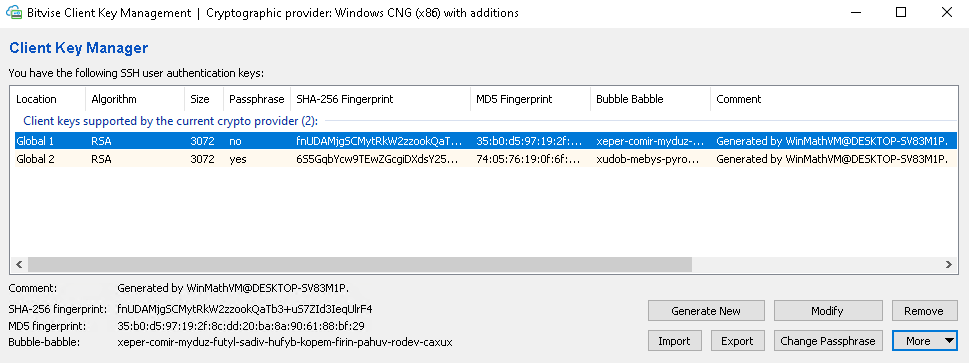
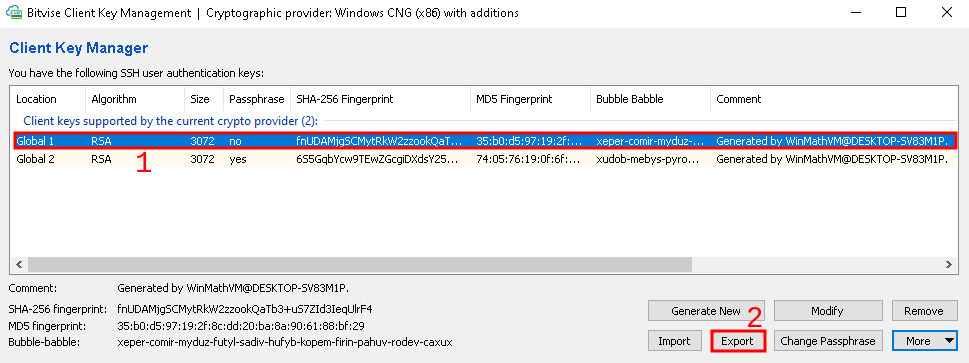
Added installation of pubkey

Changed region(s): [[0.0, 0.3636, 0.9907, 0.4848], [0.7121, 0.8485, 0.805, 0.9697]]

diff --git a/src/ssh/windows/bitvise/ssh.md b/src/ssh/windows/bitvise/ssh.md
@@ -42,7 +42,7 @@ At this point, the main window of Bitvise SSH should open automatically. If it d
 
 ### Generating keys
 
-Click on the "Client key manager" field as indicated below. This will open the key manager interface.
+Click on the `Client key manager` field as indicated below. This will open the key manager interface.
 
 <p>
 	<center>
@@ -50,7 +50,7 @@ Click on the "Client key manager" field as indicated below. This will open the k
 	</center>
 </p>
 
-In the key generation interface, click on "Generate New", which should bring you to the next step. Consult the image below. 
+In the key generation interface, click on `Generate New`, which should bring you to the next step. Consult the image below. 
 
 <p>
 	<center>
@@ -70,8 +70,96 @@ In the newly opened window, you are asked about setting a passphrase to your key
 
 Congratiulations! Your keypair has now been generated. Please proceed to see details on how to install these keys on the server(s).
 
+### Exporting the public key
+
+Once you have your keypair ready, it's time to install it on the server. From the key manager interface, select the keypair you would like to use, and click `Export` as indicated in the picture below. 
+
+> Please note that **you can use the same keypair for multiple servers**. You do not need to regenereate the keypair for each server you want to use it on. This way, you can think of this keypair as a general access card. 
+
+<p>
+	<center>
+		<img src="assets/bitvise_pubkey.png"/>
+	</center>
+</p>
+
+In the newly selected menu, choose `Export public key`. **Please make sure that the format of the key that you want to export is set to `OpenSSH format`**. After this, click on `Export`, like indicated in the picture below. 
+
+<p>
+	<center>
+		<img src="assets/bitvise_exportkey.png"/>
+	</center>
+</p>
+
+At this point you should be asked to save a file corresponding to the key itself. This file is the one that needs to be installed on the server. 
+
+### Accessing the public key
+
+> Depending on how comforatble you are with this process so far, you can choose to request assistance at this point, or to follow the guide to install this key file yourself. If you choose to request help, please send the file you have just saved to our IT team, along with the server and the associated username that you want to use it for. After this, you can skip this step. 
+
+Open the file you have just saved using a text editor of your choice. For `Windows 10`, see the steps below. 
+
+First, right click the file. Then click `Open With`, as shown in the image below. 
+
+<p>
+	<center>
+		<img src="assets/bitvise_openwith_w10.png"/>
+	</center>
+</p>
+
+After this, make sure to untick the checkbox named `Always use this app to open .pub files`, as leaving it ticked may cause issues later. After that, click on `More apps`.
+
+<p>
+	<center>
+		<img src="assets/bitvise_openwith_w10_1.png"/>
+	</center>
+</p
+
+Now select `Notepad` from the list of applications, as shown below. After that, click `OK`. Make sure the checkbox indicated by point number `2` is still unchecked. 
+
+<p>
+	<center>
+		<img src="assets/bitvise_openwith_w10_2.png"/>
+	</center>
+</p
+
+After this, a Notepad instance should open. Leave this window open, and copy the text inside.
+
 ### Installing the public key
 
-Once you have genertaed 
+Now that you have your public key at hand, depending on the server you want to install it on, you have two possible courses of action:
 
-bitvise_pubkey.png
+- **Easy method (Recommended)** - You can ask the IT administration to install this key for you
+	- Send the text contained in the Notepad instance to the IT team. They will let you know when it's ready to use. After this, you can consider this step finished.
+- **Complex method (Advanced)** - Install the key yourself
+	- This procedure assumes you already know your way around modifying files under your account and is therefore considered an advanced procedure.
+
+#### 1. Easy method (Recommended)
+
+Send the `.pub` file you obtained at the previous step (or better yet, the contents of this file) to our IT administration. They will inform you when this configuration step is done. While you wait, you can go ahead and follow the rest of the guide (skipping the installation of the key, as this is all you need to do for now)
+
+#### 2. Complex method (Advanced)
+
+If you feel comfortable managing files and their contents on a server that you already have access to, what you need to do is to make sure a folder named `.ssh` exists in your home directory. You can do this by logging into the server under your account name, and typing `ls -la`. You should see the folders you have, which should look something like the output below. 
+
+	# ls -la
+	total 36
+	drwx------  4 root root 4096 May  8 10:06 .
+	drwxr-xr-x 17 root root 4096 Feb 22 13:25 ..
+	-rw-------  1 root root 4449 May  8 10:06 .bash_history
+	drwxr-xr-x  2 root root 4096 May  4 14:06 .ssh   <- THIS ONE
+
+If it doesn't exist, you can create it by typing the following command:
+	
+	mkdir ~/.ssh
+
+> Regardless of the folder's existence, you can create it just in case. In such a case, executing the creation command will, in the worst case, just return an error code and won't cause any harm. 
+
+Once this folder is created, you can use the following command to append your public key to the `authorized_hosts` file in the `.ssh` directory, if one such file exists. Regardless, you can safely execute the following command:
+
+	echo "THE_PUBLIC_KEY_FROM_NOTEPAD" >> ~/.ssh/authorized_keys
+
+You need to replace the `THE_PUBLIC_KEY_FROM_NOTEPAD` placeholder with your actual public key, copied from Notepad. 
+
+> With most existing SSH solutions, you can paste content into the terminal window by right clicking with your mouse. This way, you can type `echo "`, followed by a right click (which should paste what you copied before from the Notepad document), followed by typing the rest of the command manually: `" >> ~/.ssh/authorized_keys`. Please observe the prefix and suffix quotes, do not forget them. 
+
+This is it! You have succesfully installed your public key. 
